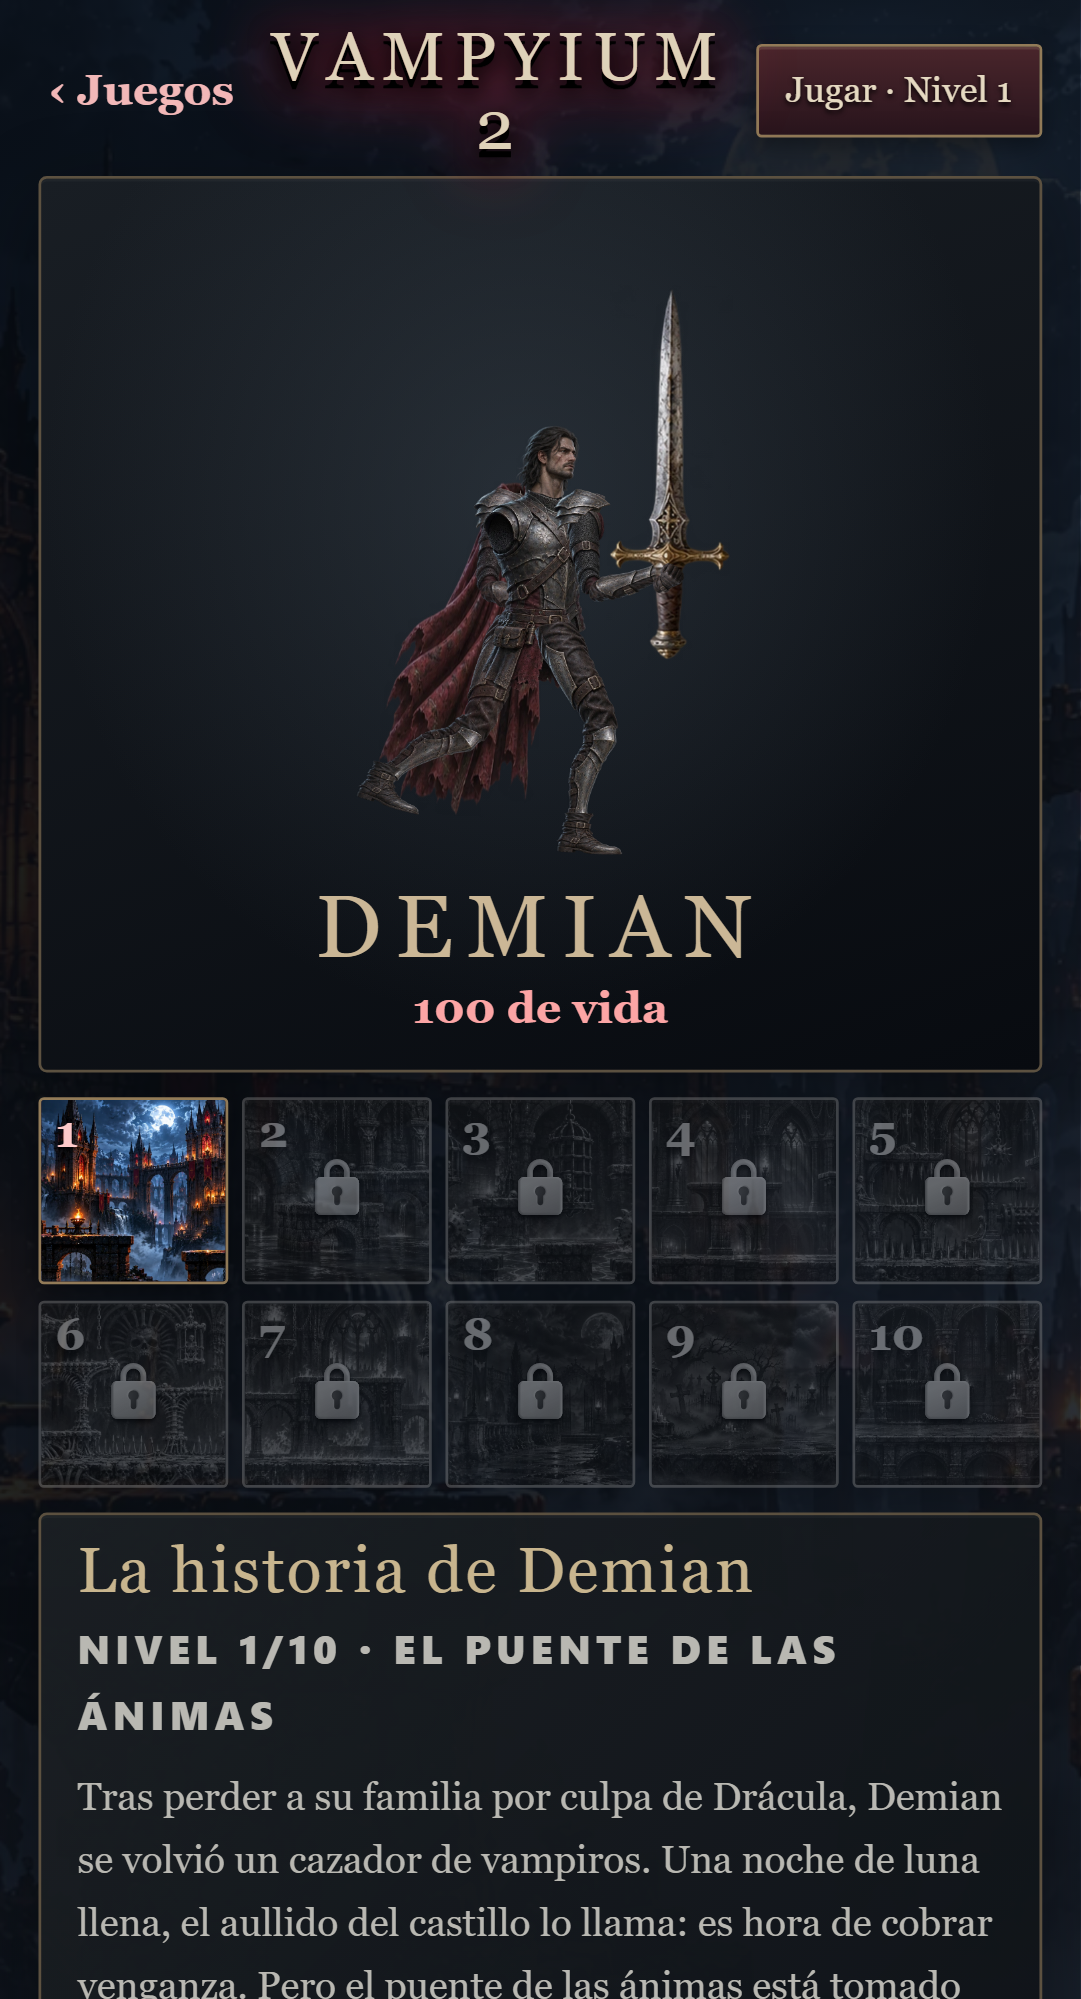
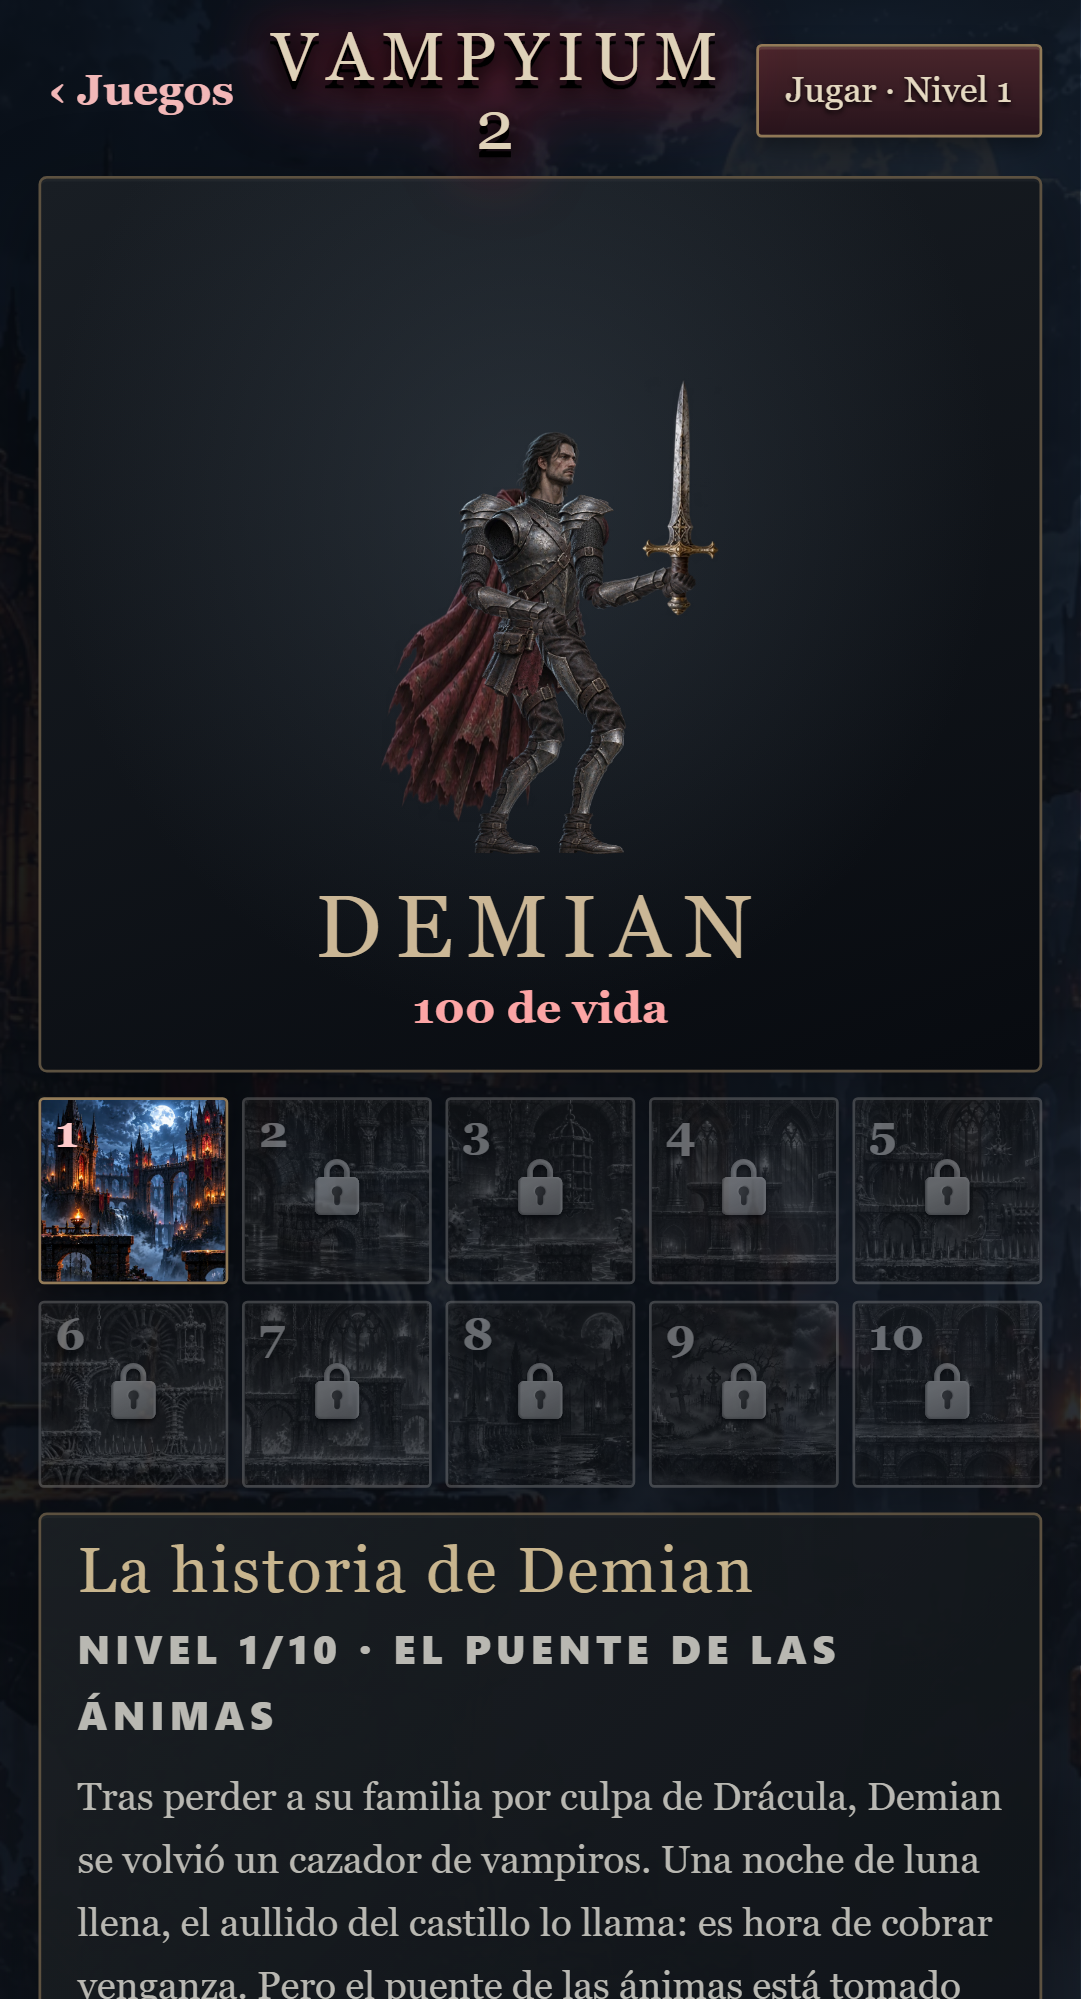
Agrandar personajes y corregir brazos y agarre de espada

Changed region(s): [[0.3358, 0.1551, 0.6716, 0.4342]]

diff --git a/src/features/games/vampyium2Art.ts b/src/features/games/vampyium2Art.ts
@@ -70,7 +70,7 @@ function pelvis(ctx: CanvasRenderingContext2D) { blob(ctx, '#f1ead8', 2.2, () =>
 function spine(ctx: CanvasRenderingContext2D) { for (let i = 0; i < 5; i++) blob(ctx, '#f1ead8', 1.6, () => ctx.roundRect(-3.5, -12 + i * 5, 7, 4, 1.5)); }
 function jaw(ctx: CanvasRenderingContext2D) { blob(ctx, '#ece3cf', 2, () => { ctx.moveTo(-9, -2); ctx.lineTo(9, -2); ctx.lineTo(6, 5); ctx.lineTo(-6, 5); ctx.closePath(); }); ctx.fillStyle = '#fff'; for (let i = -2; i <= 2; i++) ctx.fillRect(i * 3 - 1, -4, 2, 2.5); }
 export function drawBone(ctx: CanvasRenderingContext2D, b: Bone, v: View) {
-  const k = PLAYER_H * 1.3 * v.s / 100 * (b.s ?? 1), fade = Math.min(1, (3.4 - b.t) / 0.6);
+  const k = PLAYER_H * 1.3 * v.s * CHARACTER_SCALE / 100 * (b.s ?? 1), fade = Math.min(1, (3.4 - b.t) / 0.6);
   ctx.save(); ctx.globalAlpha = Math.max(0, fade); ctx.translate(X(v, b.x), Y(v, b.y)); ctx.scale(k, k); ctx.rotate(b.a);
   if (b.kind === 'skull') skull(ctx, b.t < 1.2 ? '#ff3a2a' : '#2a1e1a');
   else if (b.kind === 'jaw') jaw(ctx);
@@ -83,7 +83,8 @@ export function drawBone(ctx: CanvasRenderingContext2D, b: Bone, v: View) {
 }
 // El vampiro se vuelve esqueleto: la carne se desvanece, el esqueleto brilla y arde entero como una antorcha
 // (como la gente que se prende fuego en "El piso es de lava"), grita y al segundo revienta.
-export const CHAR_K = 0.88; // metros del personaje → unidades del mundo
+export const CHARACTER_SCALE = 3;
+export const CHAR_K = 0.88 * CHARACTER_SCALE; // escala visual de los personajes durante la partida
 export function drawCorpse(ctx: CanvasRenderingContext2D, c: Corpse, v: View, t: number, g?: Game) {
   const B = BODY[c.kind], k = CHAR_K * v.s * B.k, f = Math.min(1, c.t / BURN_AT), burn = Math.max(0, Math.min(1, (c.t - BURN_AT) / (BLOW_AT - BURN_AT)));
   const fly = c.kind === 'flyer', dragon = c.kind === 'dragon';
@@ -121,7 +122,7 @@ export function drawCorpse(ctx: CanvasRenderingContext2D, c: Corpse, v: View, t:
 // Los que mató una armadura: congelado (un instante antes de romperse), derritiéndose en verde, haciéndose luz o
 // a punto de explotar en violeta.
 function armorCorpse(ctx: CanvasRenderingContext2D, c: Corpse, v: View, t: number, k: number, fake: Vamp) {
-  const B = BODY[c.kind], x = X(v, c.x), y = Y(v, c.y) + (c.kind === 'flyer' ? -v.s * 0.6 : 0), w = v.s * (B.w + 1.4), h = v.s * (B.h + 1.4);
+  const B = BODY[c.kind], x = X(v, c.x), y = Y(v, c.y) + (c.kind === 'flyer' ? -v.s * 0.6 : 0), w = v.s * (B.w + 1.4) * CHARACTER_SCALE, h = v.s * (B.h + 1.4) * CHARACTER_SCALE;
   const body = (sy = 1, sx = 1) => (cc: CanvasRenderingContext2D) => { cc.save(); cc.translate(x, y); cc.scale(k * c.face * sx, k * sy); drawVampK(cc, fake, t); cc.restore(); };
   if (c.how === 'ice') { tinted(ctx, x - w / 2, y - h, w, h + v.s * 0.4, 'rgb(170,225,255)', 0.7, body()); return; }
   if (c.how === 'violet') { tinted(ctx, x - w / 2, y - h, w, h + v.s * 0.4, 'rgb(200,110,255)', 0.4 + c.t * 3, body()); ctx.save(); ctx.globalCompositeOperation = 'lighter'; glow(ctx, x, y - v.s * B.h * 0.5, v.s * 1.6, 'rgba(200,100,255,0.7)'); ctx.restore(); return; }
@@ -883,9 +884,9 @@ function tinted(ctx: CanvasRenderingContext2D, bx: number, by: number, bw: numbe
 }
 // El vampiro congelado: azul hielo, con el bloque de hielo alrededor y brillitos.
 function frozenVamp(ctx: CanvasRenderingContext2D, vp: Vamp, v: View, t: number, k: number, left: number) {
-  const B = BODY[vp.kind], x = X(v, vp.x), y = Y(v, vp.y), w = v.s * (B.w + 1.2), h = v.s * (B.h + 1.2);
+  const B = BODY[vp.kind], x = X(v, vp.x), y = Y(v, vp.y), w = v.s * (B.w + 1.2) * CHARACTER_SCALE, h = v.s * (B.h + 1.2) * CHARACTER_SCALE;
   tinted(ctx, x - w / 2, y - h, w, h + v.s * 0.4, 'rgb(150,215,255)', 0.5, c => { c.save(); c.translate(x, y); c.scale(k * vp.face, k); drawVampK(c, vp, t); c.restore(); });
-  const bw = v.s * (B.w + 0.5), bh = v.s * (B.h + 0.35), shake = left < 0.25 ? Math.sin(t * 80) * v.s * 0.04 : 0;
+  const bw = v.s * (B.w + 0.5) * CHARACTER_SCALE, bh = v.s * (B.h + 0.35) * CHARACTER_SCALE, shake = left < 0.25 ? Math.sin(t * 80) * v.s * 0.04 : 0;
   ctx.save(); ctx.translate(shake, 0);
   ctx.fillStyle = 'rgba(170,225,255,0.28)'; ctx.strokeStyle = 'rgba(230,248,255,0.85)'; ctx.lineWidth = Math.max(1.5, v.s * 0.05);
   ctx.beginPath(); ctx.moveTo(x - bw / 2, y); ctx.lineTo(x - bw / 2 - v.s * 0.1, y - bh * 0.6); ctx.lineTo(x - bw * 0.3, y - bh); ctx.lineTo(x + bw * 0.25, y - bh - v.s * 0.1); ctx.lineTo(x + bw / 2 + v.s * 0.08, y - bh * 0.55); ctx.lineTo(x + bw / 2, y); ctx.closePath(); ctx.fill(); ctx.stroke();
@@ -1116,7 +1117,7 @@ export function drawGame(ctx: CanvasRenderingContext2D, g: Game, w: number, h: n
     // la barrita de vida de los fuertes (cuando ya les pegaron)
     const hp = vp.hp ?? 1, max = vp.maxHp ?? 1;
     if (max > 1 && hp < max && !isBoss(vp.kind)) {
-      const bw = v.s * 1.1, bh = Math.max(4, v.s * 0.13), bx = X(v, vp.x) - bw / 2, by = Y(v, vp.y + BODY[vp.kind].h + 0.35);
+      const bw = v.s * 1.1, bh = Math.max(4, v.s * 0.13), bx = X(v, vp.x) - bw / 2, by = Y(v, vp.y + BODY[vp.kind].h * CHARACTER_SCALE + 0.35);
       ctx.fillStyle = 'rgba(0,0,0,0.75)'; ctx.fillRect(bx - 2, by - 2, bw + 4, bh + 4);
       ctx.fillStyle = '#3a0408'; ctx.fillRect(bx, by, bw, bh);
       ctx.fillStyle = lin(ctx, 0, by, 0, by + bh, [[0, '#ff6070'], [1, '#b0101c']]); ctx.fillRect(bx, by, bw * hp / max, bh);
@@ -1147,7 +1148,7 @@ export function drawGame(ctx: CanvasRenderingContext2D, g: Game, w: number, h: n
       if (g.phase !== 'won') {   // (más chico, un poco más arriba y cada vez más oscuro)
         const x1 = X(v, DOOR.x1), x2 = X(v, DOOR.x2), y0 = Y(v, DOOR.y), top = Y(v, DOOR.y + DOOR.h), mid = (x1 + x2) / 2, r = (x2 - x1) / 2;
         ctx.save(); ctx.beginPath(); ctx.moveTo(x1, y0); ctx.lineTo(x1, top + r); ctx.quadraticCurveTo(x1, top - r * 0.4, mid, top - r); ctx.quadraticCurveTo(x2, top - r * 0.4, x2, top + r); ctx.lineTo(x2, y0); ctx.closePath(); ctx.clip();
-        const sc = 1 - 0.45 * enter, px = X(v, p.x), py = Y(v, p.y) - v.s * 0.35 * enter, bw = v.s * 2.4, bh = v.s * 2.8;
+        const sc = 1 - (1 - .55 / CHARACTER_SCALE) * enter, px = X(v, p.x), py = Y(v, p.y) - v.s * 0.35 * enter, bw = v.s * 2.4 * CHARACTER_SCALE, bh = v.s * 2.8 * CHARACTER_SCALE;
         tinted(ctx, px - bw / 2, py - bh, bw, bh + v.s * 0.2, '#000', Math.min(0.85, enter * 0.8), c => { c.save(); c.translate(px, py); c.scale(k * p.face * sc, k * sc); drawHunterK(c, p, g, t); c.restore(); });
         ctx.restore();
       }

diff --git a/src/features/games/vampyium2Sprites.ts b/src/features/games/vampyium2Sprites.ts
@@ -71,7 +71,7 @@ export function drawRealisticHunter(ctx: CanvasRenderingContext2D, p: Player, g:
   if (p.special?.kind === 'dash') { ctx.translate(.12, -.06); ctx.rotate(.2); }
   const hip: Pt = [pose.lean * .08, -.92 + pose.bob * .45 + pose.crouch * .3 + (p.landT > 0 ? p.landT * .32 : 0)];
   const neck: Pt = [hip[0] + Math.sin(pose.lean) * .61, hip[1] - Math.cos(pose.lean) * .61];
-  const shoulders: Pt[] = [[neck[0] - .18, neck[1] + .085], [neck[0] + .17, neck[1] + .09]];
+  const shoulders: Pt[] = [[neck[0] - .245, neck[1] + .085], [neck[0] + .185, neck[1] + .09]];
   const feet: Pt[] = [], knees: Pt[] = [];
   for (let i = 0; i < 2; i++) {
     const origin: Pt = [hip[0] + (i ? .09 : -.09), hip[1] + .03];
@@ -99,16 +99,26 @@ export function drawRealisticHunter(ctx: CanvasRenderingContext2D, p: Player, g:
     const bootAngle = p.onGround && Math.abs(p.vx) < .15 && p.attackT < 0 ? 0 : -(pose.legs[i][0] - pose.legs[i][1]) * .3;
     part(ctx, 8, [feet[i][0] + .045, feet[i][1] + .015], .29, .18, bootAngle); ctx.restore();
   };
-  const arm = (i: number, weapon: boolean) => {
+  const arm = (i: number, layer: 'upper' | 'forearm' | 'all') => {
     const [a, b] = pose.arms[i], elbow = add(shoulders[i], a, .34), hand = add(elbow, a + b, .32);
-    ctx.save(); if (!i) ctx.globalAlpha *= .84;
-    limb(ctx, 3, shoulders[i], elbow, .17); limb(ctx, 4, elbow, hand, .15);
-    part(ctx, 9, shoulders[i], .25, .18, -a * .15);
-    if (weapon) paintWeapon(hand, a + b + pose.blade);
-    else if (g.guardHp > 0) drawAsset(ctx, 'weapons', 10, hand[0] - .2, hand[1] - .23, .4, .58);
-    part(ctx, 5, hand, .13, .14, -(a + b)); ctx.restore();
+    const grip = add(hand, a + b, .035);
+    ctx.save(); if (!i) ctx.globalAlpha *= .94;
+    if (layer !== 'forearm') {
+      limb(ctx, 3, shoulders[i], elbow, .185);
+      part(ctx, 9, shoulders[i], .25, .18, -a * .15);
+    }
+    if (layer !== 'upper') {
+      limb(ctx, 4, elbow, hand, .16);
+      // Wrist/cuff overlaps the vambrace. The fingers cover the handle, not the guard.
+      part(ctx, 5, grip, .125, .15, -(a + b));
+      if (i === 1) paintWeapon(grip, a + b + pose.blade);
+      else if (g.guardHp > 0) drawAsset(ctx, 'weapons', 10, grip[0] - .2, grip[1] - .23, .4, .58);
+      ctx.save(); ctx.beginPath(); ctx.ellipse(grip[0], grip[1], .047, .052, -(a + b), 0, Math.PI * 2); ctx.clip();
+      part(ctx, 5, grip, .125, .15, -(a + b)); ctx.restore();
+    }
+    ctx.restore();
   };
-  leg(0); arm(0, false);
+  leg(0); arm(0, 'upper');
   let torso = 1;
   if (g.weapon === 'ice') torso = 14;
   if (g.weapon === 'bone') torso = 15;
@@ -119,7 +129,8 @@ export function drawRealisticHunter(ctx: CanvasRenderingContext2D, p: Player, g:
   part(ctx, 0, head, .275, .32, pose.head * .4);
   const helmet = g.guardHp > 0 ? 12 : g.weapon === 'holy' || g.weapon === 'cross' ? 11 : g.weapon === 'bone' ? 13 : -1;
   if (helmet >= 0) part(ctx, helmet, [head[0], head[1] - .008], .30, .34, pose.head * .4);
-  arm(1, true);
+  // The rear upper arm stays behind the chest; its forearm and hand cross in front.
+  arm(0, 'forearm'); arm(1, 'all');
   if (p.attackT > .025 && p.attackT < .18 && ['sword', 'firesword', 'violet', 'bone'].includes(p.attackWeapon)) {
     ctx.save(); ctx.globalCompositeOperation = 'lighter'; ctx.globalAlpha *= Math.sin(p.attackT / .18 * Math.PI) * .32;
     ctx.strokeStyle = p.attackWeapon === 'firesword' ? '#efb778' : p.attackWeapon === 'violet' ? '#c6a2c7' : '#c7d6d9';

diff --git a/src/features/games/vampyium2Environment.ts b/src/features/games/vampyium2Environment.ts
@@ -170,11 +170,12 @@ export function realisticHeldWeapon(ctx: CanvasRenderingContext2D, weapon: Weapo
   if ((weapon === 'garlic' || weapon === 'venom') && attackT > .1 && attackT < .3) return true;
   const index = WEAPON_SPRITE[weapon], aspect = assetAspect('weapons', index);
   const sword = ['sword', 'firesword', 'violet', 'bone'].includes(weapon);
-  const w = sword ? weapon === 'bone' ? 1.55 : 1.65 : weapon === 'crossbow' ? .9 : weapon === 'pistol' ? .6 : .38;
+  const w = sword ? weapon === 'bone' ? 1.55 : weapon === 'violet' ? 1.12 : 1.05 : weapon === 'crossbow' ? .9 : weapon === 'pistol' ? .6 : .38;
   const h = w / aspect;
   ctx.save(); ctx.translate(hand[0], hand[1]);
   if (sword || weapon === 'crossbow' || weapon === 'pistol') ctx.rotate(Math.PI / 2 - angle);
-  drawAsset(ctx, 'weapons', index, -w * (sword ? .22 : .25), -h * .5, w, h);
+  const gripAt = weapon === 'bone' ? .23 : sword ? .135 : .25;
+  drawAsset(ctx, 'weapons', index, -w * gripAt, -h * .5, w, h);
   if (weapon === 'firesword') {
     ctx.save(); ctx.translate(w * .5, 0); ctx.rotate(-Math.PI / 2);
     fireLight(ctx, 0, 0, .16, .66, t, .3); ctx.restore();

diff --git a/docs/vampyium2-realismo.md b/docs/vampyium2-realismo.md
@@ -1,5 +1,7 @@
 # Vampyium 2 — rediseño de arte
 
+Último ajuste: tamaño visual de todos los personajes multiplicado por tres durante la partida. Los retratos mantienen la escala de sus tarjetas. Se separaron las capas de los brazos para que el torso no oculte el antebrazo; la mano rodea la empuñadura y las espadas pasan de 1,65 a 1,05 unidades (1,12 en la variante violeta). Se adaptaron también los recortes de congelación, muerte y entrada por la puerta a la escala nueva.
+
 El rediseño utiliza las referencias aportadas por el usuario y el enfoque de recursos rasterizados de Land of Warriors. Se conservan los diez niveles, la física, los controles, la progresión y las doce armas del juego. Vampyrium permanece independiente.
 
 ## Arte integrado
